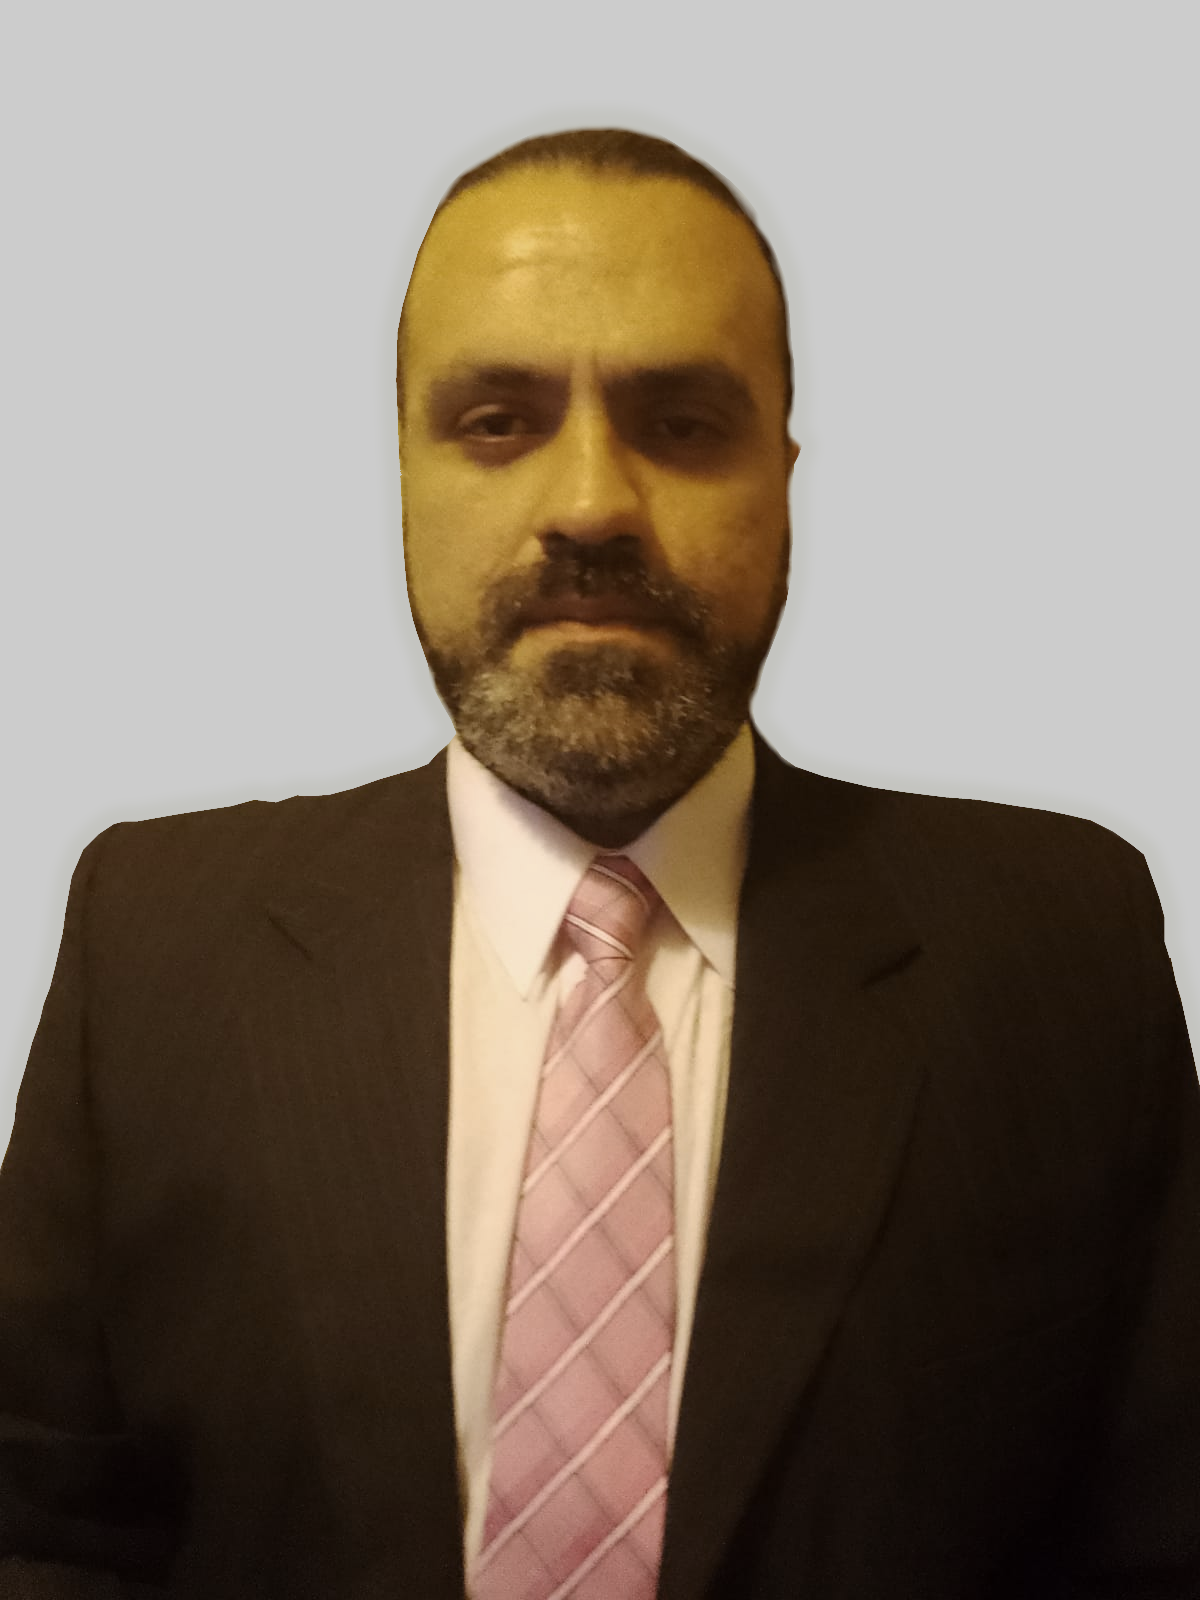
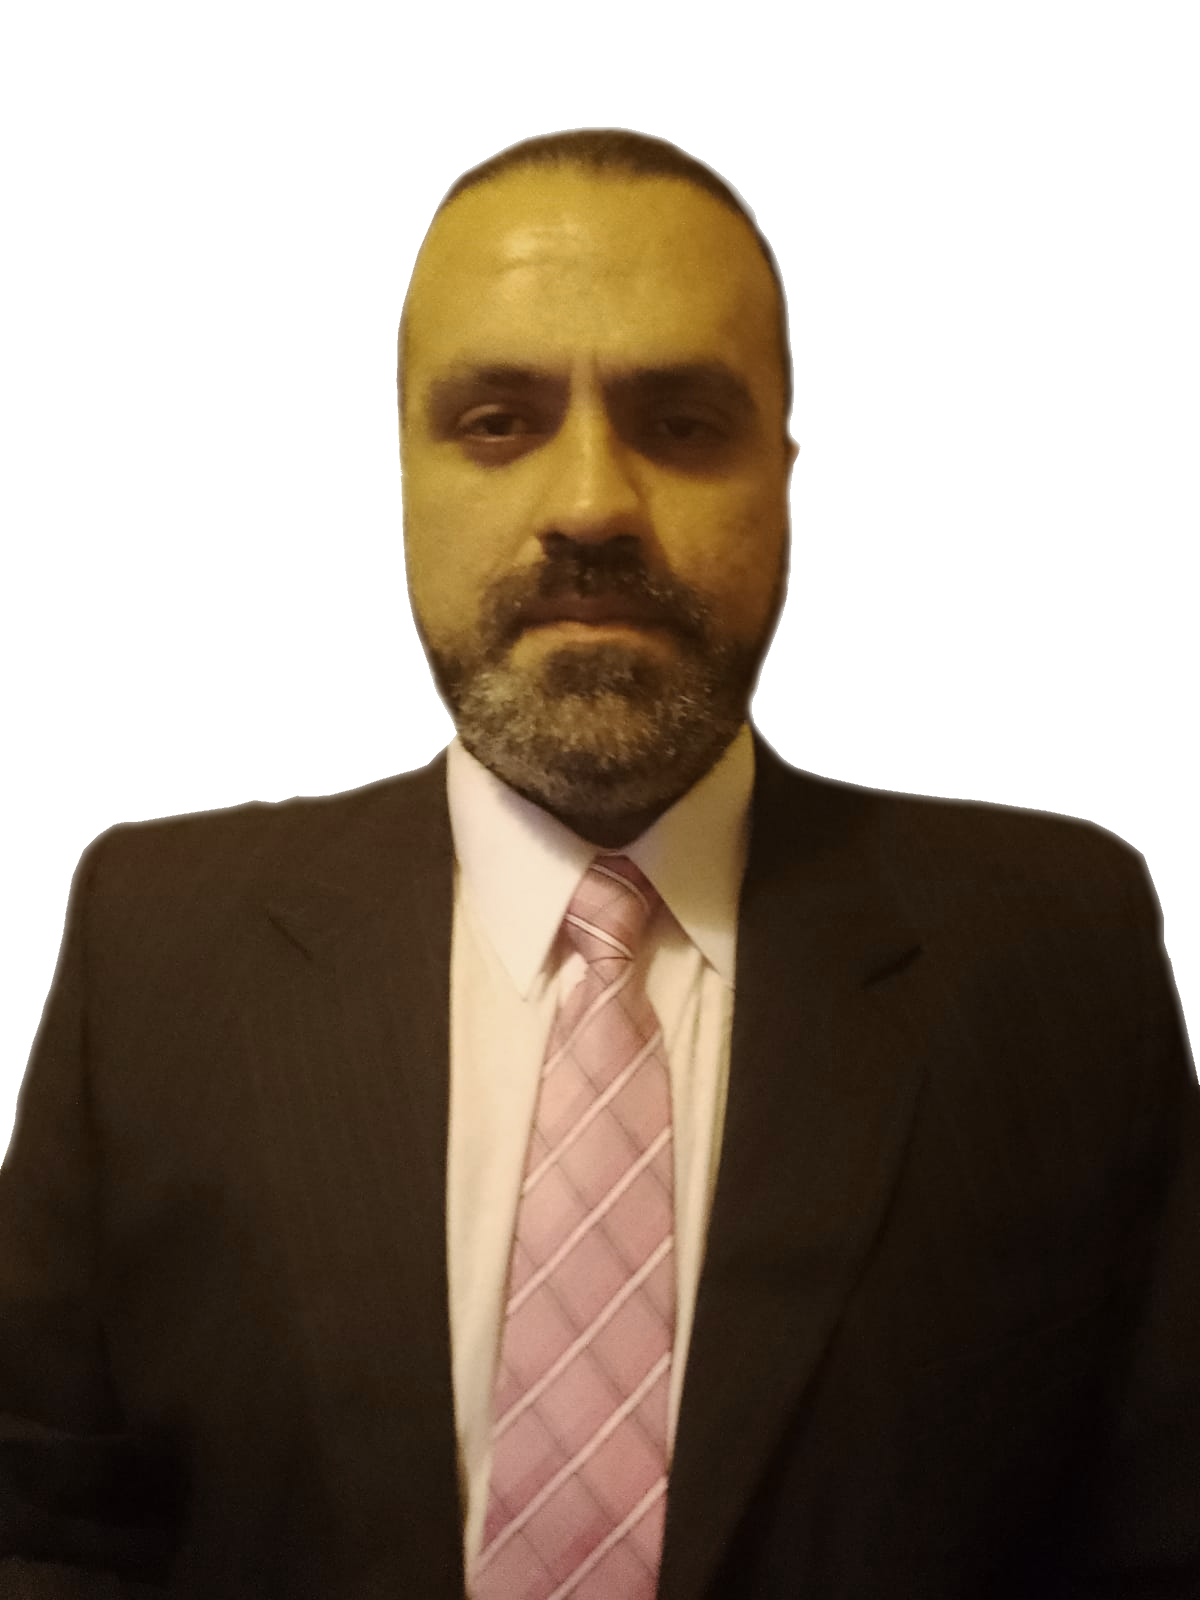
w9

diff --git a/index.html b/index.html
@@ -9,7 +9,6 @@
     <script class="u-script" type="text/javascript" src="jquery-1.9.1.min.js" defer></script>
     <script class="u-script" type="text/javascript" src="nicepage.js" defer></script>
     <meta name="generator" content="Nicepage 4.12.2, nicepage.com">
-    <link id="u-theme-google-font" rel="stylesheet" href="https://fonts.googleapis.com/css?family=Montserrat:100,100i,200,200i,300,300i,400,400i,500,500i,600,600i,700,700i,800,800i,900,900i|Open+Sans:300,300i,400,400i,500,500i,600,600i,700,700i,800,800i">
     <style class="u-style"> .u-section-2 {
   background-image: none;
 }
@@ -29,7 +28,7 @@
 .u-section-2 .u-image-1 {
   width: 731px;
   height: 731px;
-  background-image: url("//images01.nicepage.com/c461c07a441a5d220e8feb1a/ea27e030bb1355e384dd3b7a/3816bc2b-2562-3d78-4901-cbbbcc9aa9a1.jpg");
+  background-image: url("https://raw.githubusercontent.com/m4570r/web/main/Imagen%20de%20W8.png");
   background-position: 50% 0%;
   margin: -1047px auto 0 0;
 }
